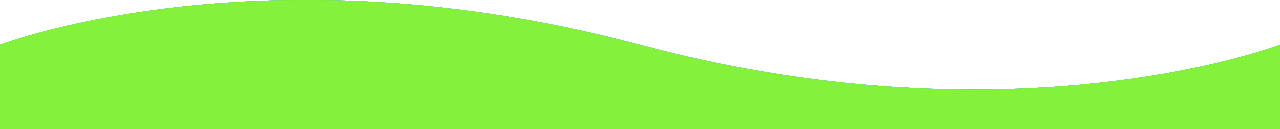
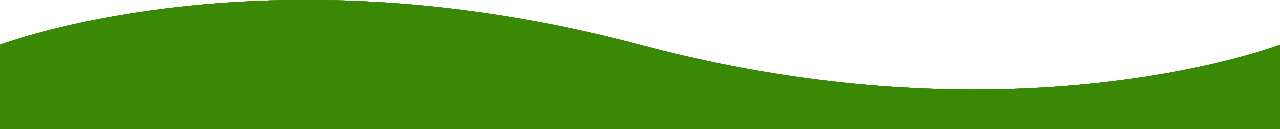
footer

diff --git a/components/footer/footer.css b/components/footer/footer.css
@@ -18,7 +18,7 @@ footer
 {
     position: relative;
     width: 100%;
-    background: #3586ff;
+    background: #3a8905;
     min-height: 100px;
     padding: 20px 50px;
     display: flex;
